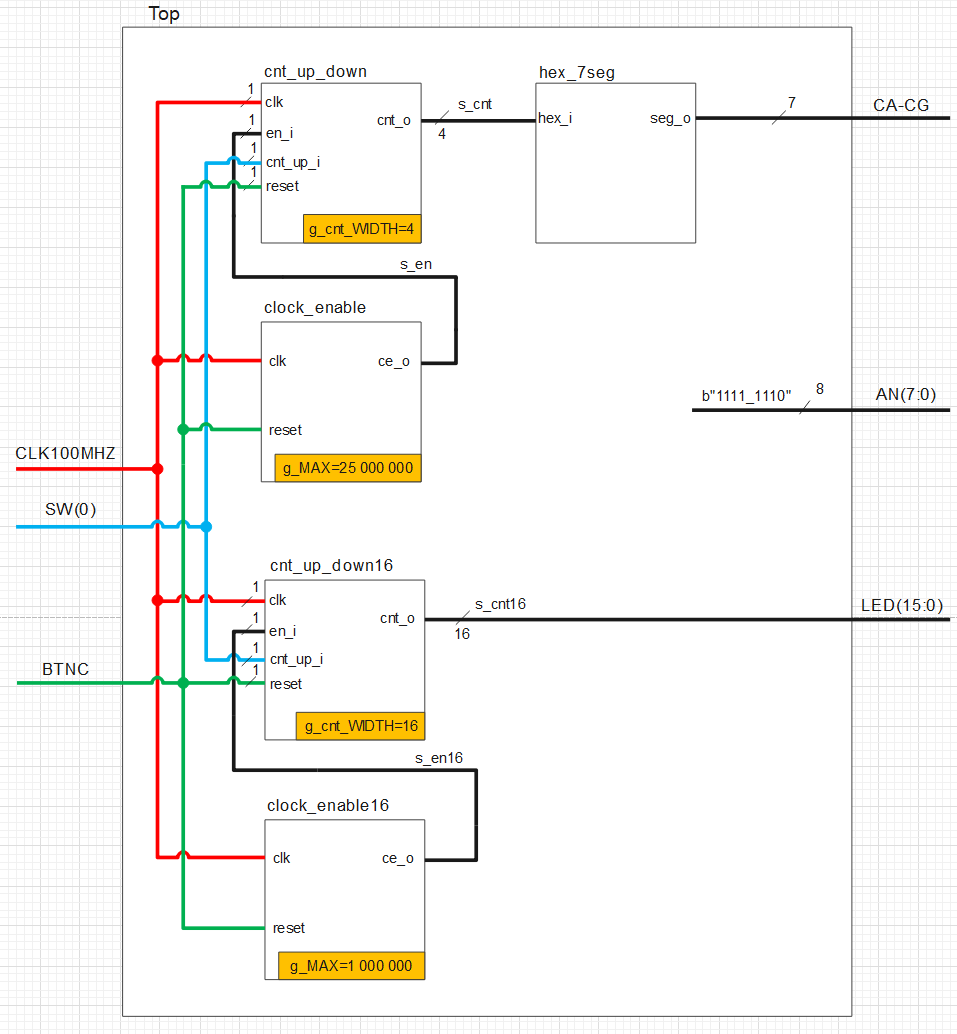
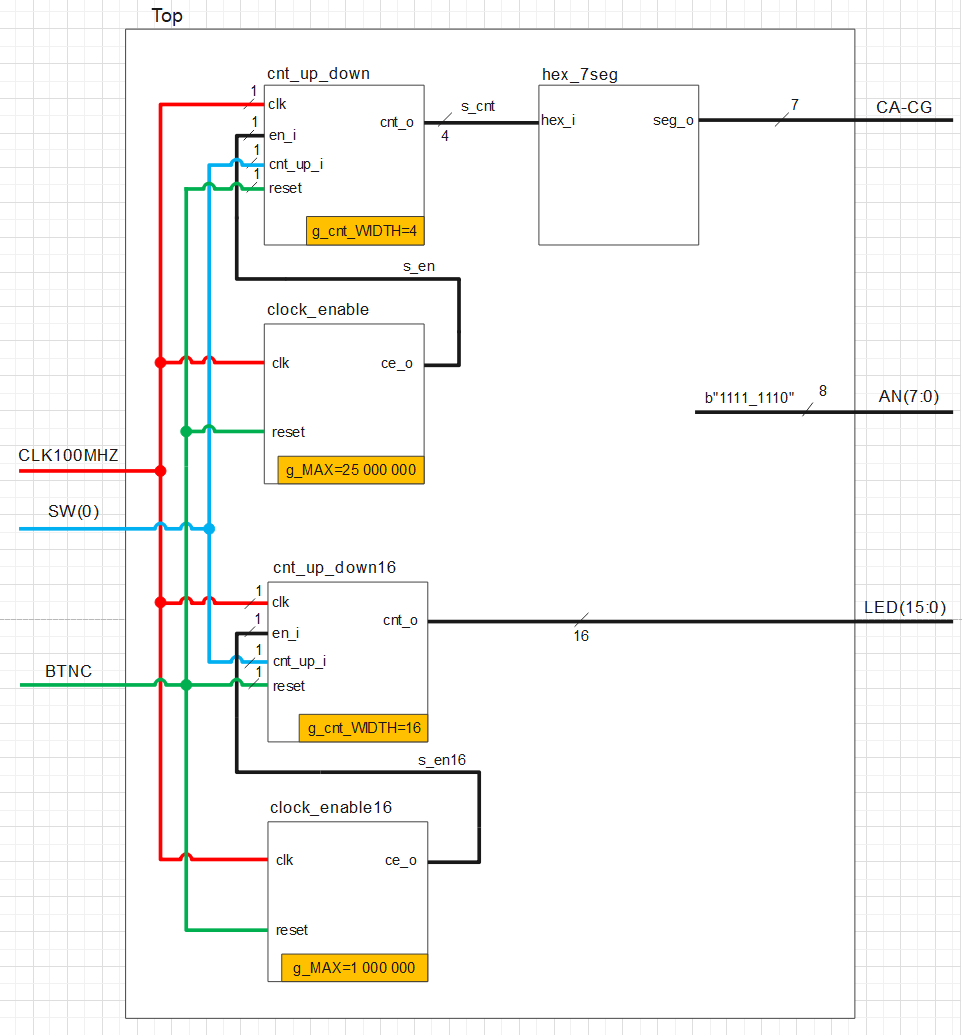
Updates were made

diff --git a/Labs/05-counter/README.md b/Labs/05-counter/README.md
@@ -138,7 +138,7 @@ entity top is
            CLK100MHZ : in STD_LOGIC;
            BTNC      : in STD_LOGIC;
            SW        : in STD_LOGIC_VECTOR  (1 - 1 downto 0);
-           LED       : out STD_LOGIC_VECTOR (4 - 1 downto 0);
+           LED       : out STD_LOGIC_VECTOR (16 - 1 downto 0);
            CA        : out STD_LOGIC;
            CB        : out STD_LOGIC;
            CC        : out STD_LOGIC;
@@ -157,6 +157,8 @@ architecture Behavioral of top is
 
     -- Internal clock enable
     signal s_en  : std_logic;
+    -- Internal clock enable
+    signal s_en16  : std_logic;
     -- Internal counter
     signal s_cnt : std_logic_vector(4 - 1 downto 0);
 
@@ -194,7 +196,38 @@ begin
         );
 
     -- Display input value on LEDs
-    LED(3 downto 0) <= s_cnt;
+    --LED(3 downto 0) <= s_cnt;
+
+    --------------------------------------------------------------------
+    -- Instance (copy) of clock_enable entity
+    clk_en16 : entity work.clock_enable
+        generic map(
+            --- WRITE YOUR CODE HERE
+            g_MAX => 1000000
+        )
+        port map(
+            --- WRITE YOUR CODE HERE
+            clk    => CLK100MHZ,
+            reset  => BTNC,
+            ce_o   => s_en16
+
+        );
+
+     --------------------------------------------------------------------
+    -- Instance (copy) of cnt_up_down entity
+    bin_cnt16 : entity work.cnt_up_down
+        generic map(
+            --- WRITE YOUR CODE HERE
+            g_CNT_WIDTH => 16
+        )
+        port map(
+            --- WRITE YOUR CODE HERE
+            clk        => CLK100MHZ,
+            reset      => BTNC,
+            en_i       => s_en16,
+            cnt_up_i   => SW(0),
+            cnt_o      => LED(15 downto 0)
+        );
 
     --------------------------------------------------------------------
     -- Instance (copy) of hex_7seg entity
